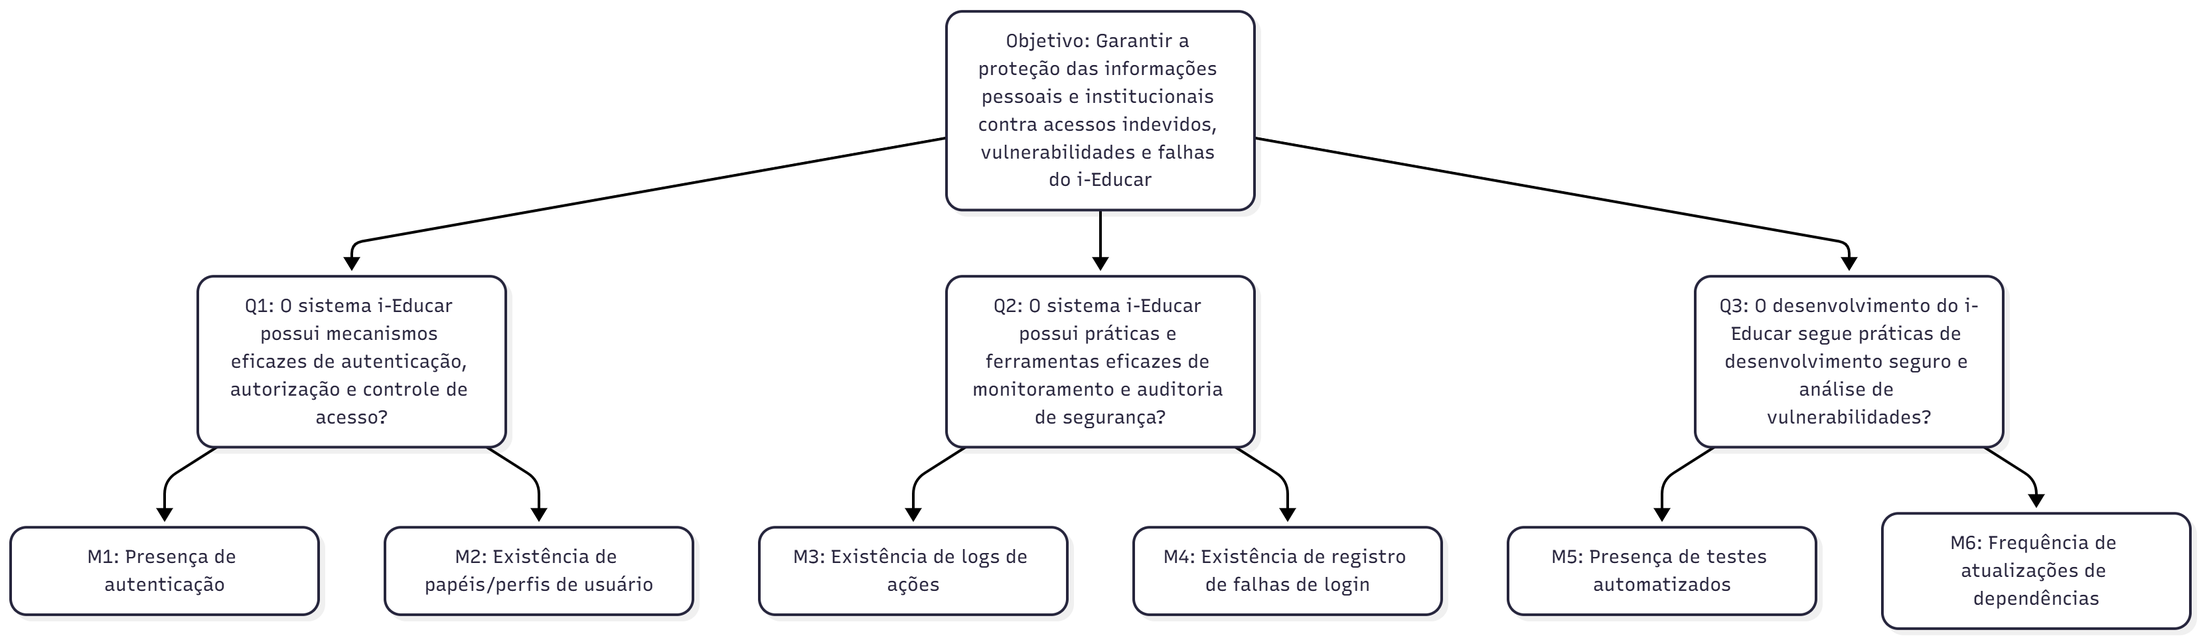
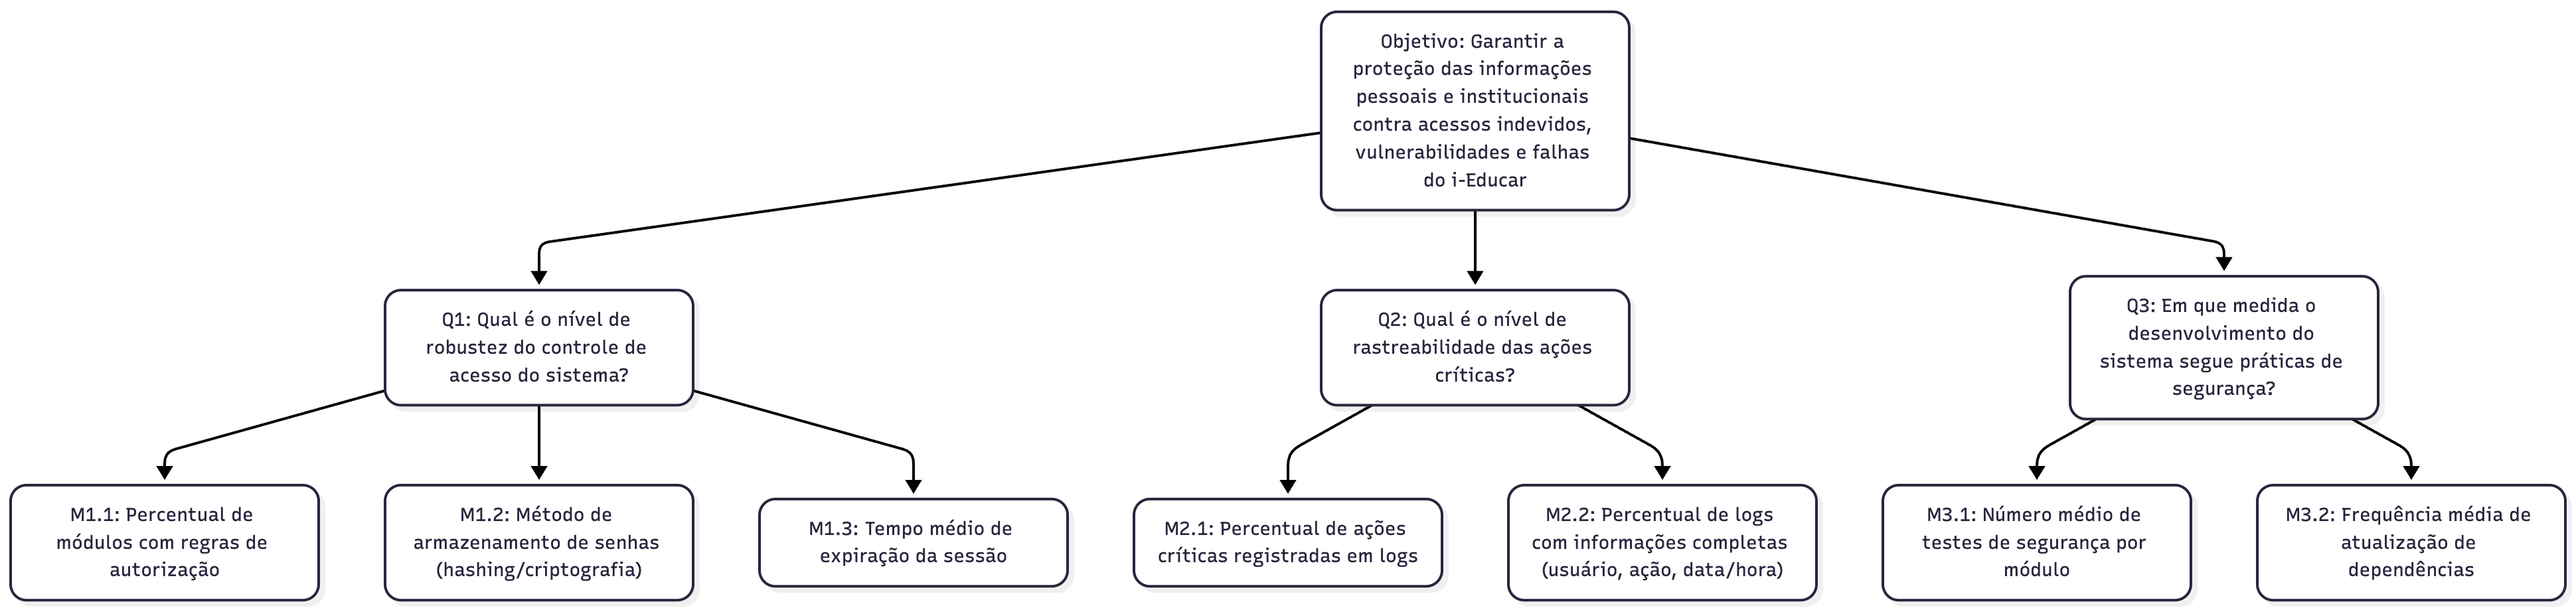
atualiza tabelas e diagrama

diff --git a/docs/fase_2/gqm_seguranca.md b/docs/fase_2/gqm_seguranca.md
@@ -72,30 +72,33 @@
     * **Coleta:**  
         a. Revisão do código fonte e documentação para identificar regras de autorização por módulo.  
     * **Propósito:** Avaliar a abrangência do controle de acesso baseado em papéis.  
-    * **Critério de Julgamento:**  
-      - ≥ 90%: Excelente  
-      - 70% a 89%: Bom  
-      - 40% a 69%: Regular  
-      - < 40%: Insatisfatório
+    * **Pontuação de Julgamento:**  
+
+      | **Excelente** | **Bom** | **Regular** | **Insatisfatório** |
+      |:-------------:|:-------:|:-----------:|:-----------------:|
+      | ≥ 90%         | 70% a 89% | 40% a 69% | < 40%             |
 
 * **Métrica 1.2 – Método de armazenamento de senhas**  
     * **Definição:** Verificação da presença de técnicas de hashing e criptografia no armazenamento das senhas.  
     * **Coleta:**  
         a. Análise do código fonte do sistema de autenticação.  
     * **Propósito:** Confirmar a segurança no armazenamento de credenciais.  
-    * **Critério de Julgamento:**  
-      - Sim: Conforme  
-      - Não: Não conforme
+    * **Pontuação de Julgamento:**  
+
+      | **Conforme** | **Não conforme** |
+      |:------------:|:----------------:|
+      | Sim          | Não              |
 
 * **Métrica 1.3 – Tempo médio de expiração da sessão**  
     * **Definição:** Tempo configurado para encerramento automático das sessões por inatividade, em minutos.  
     * **Coleta:**  
         a. Análise das configurações do sistema ou testes funcionais para medir o tempo de expiração.  
     * **Propósito:** Verificar conformidade com a política de segurança de sessões.  
-    * **Critério de Julgamento:**  
-      - Menor ou igual a 60 minutos: Conforme  
-      - Acima de 60 minutos: Não conforme  
+    * **Pontuação de Julgamento:**  
 
+      | **Conforme** | **Não conforme** |
+      |:------------:|:----------------:|
+      | Menor ou igual a 60 | Acima de 60 |
 
 **Questão 2: Monitoramento e Auditoria**
 
@@ -104,22 +107,22 @@
     * **Coleta:**  
         a. Análise dos arquivos de log e documentação do sistema.  
     * **Propósito:** Avaliar a efetividade do monitoramento de eventos de segurança.  
-    * **Critério de Julgamento:**  
-      - ≥ 90%: Excelente  
-      - 70% a 89%: Bom  
-      - 40% a 69%: Regular  
-      - < 40%: Insatisfatório
+    * **Pontuação de Julgamento:**  
+
+      | **Excelente** | **Bom** | **Regular** | **Insatisfatório** |
+      |:-------------:|:-------:|:-----------:|:-----------------:|
+      | ≥ 90%         | 70% a 89% | 40% a 69% | < 40%             |
 
 * **Métrica 2.2 – Percentual de logs com informações completas**  
     * **Definição:** Percentual de registros de log que incluem usuário, ação e data/hora.  
     * **Coleta:**  
         a. Amostragem e análise dos registros de log.  
     * **Propósito:** Garantir a rastreabilidade adequada dos eventos registrados.  
-    * **Critério de Julgamento:**  
-      - ≥ 80%: Excelente  
-      - 60% a 79%: Bom  
-      - 40% a 59%: Regular  
-      - < 40%: Insatisfatório  
+    * **Pontuação de Julgamento:**  
+
+      | **Excelente** | **Bom** | **Regular** | **Insatisfatório** |
+      |:-------------:|:-------:|:-----------:|:-----------------:|
+      | ≥ 80%         | 60% a 79% | 40% a 59% | < 40%             |
 
 
 **Questão 3: Desenvolvimento Seguro**
@@ -129,20 +132,22 @@
     * **Coleta:**  
         a. Inspeção do repositório de testes automatizados e documentação.  
     * **Propósito:** Avaliar a cobertura dos testes de segurança no projeto.  
-    * **Critério de Julgamento:**  
-      - ≥ 3 testes: Excelente  
-      - 2 testes: Bom  
-      - 1 teste: Regular  
-      - 0 testes: Insatisfatório
+    * **Pontuação de Julgamento:**  
+
+      | **Excelente** | **Bom** | **Regular** | **Insatisfatório** |
+      |:-------------:|:-------:|:-----------:|:-----------------:|
+      | ≥ 3           | 2       | 1           | 0                 |
 
 * **Métrica 3.2 – Frequência média de atualização de dependências**  
     * **Definição:** Intervalo médio, em meses, entre atualizações das dependências externas do projeto.  
     * **Coleta:**  
         a. Análise do histórico de commits e arquivos de configuração de dependências.  
     * **Propósito:** Verificar a manutenção do projeto em relação a vulnerabilidades conhecidas.  
-    * **Critério de Julgamento:**  
-      - Atualização a cada ≤ 6 meses: Conforme  
-      - Atualização > 6 meses: Não conforme  
+    * **Pontuação de Julgamento:**  
+
+      | **Conforme** | **Não conforme** |
+      |:------------:|:----------------:|
+      | Atualização a cada ≤ 6 meses | Atualização > 6 meses |
 
 ---
 
